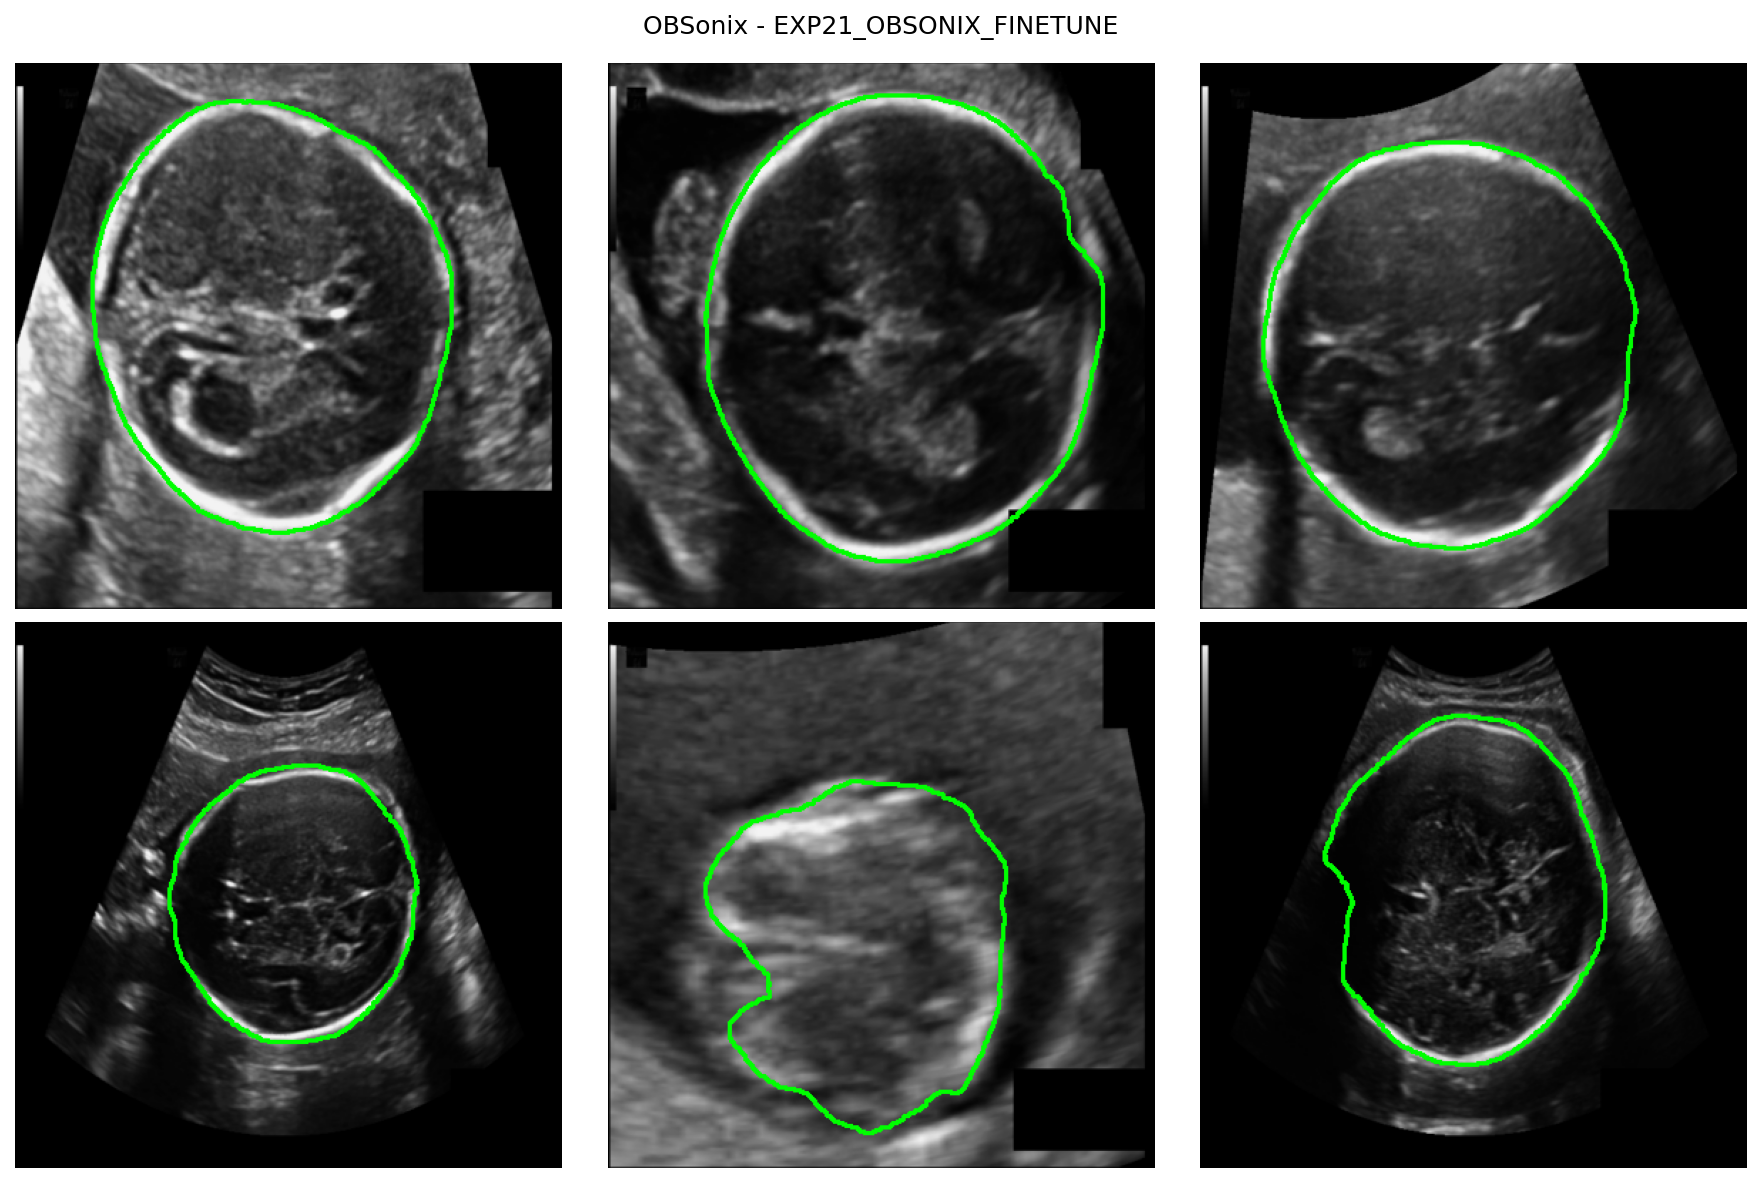
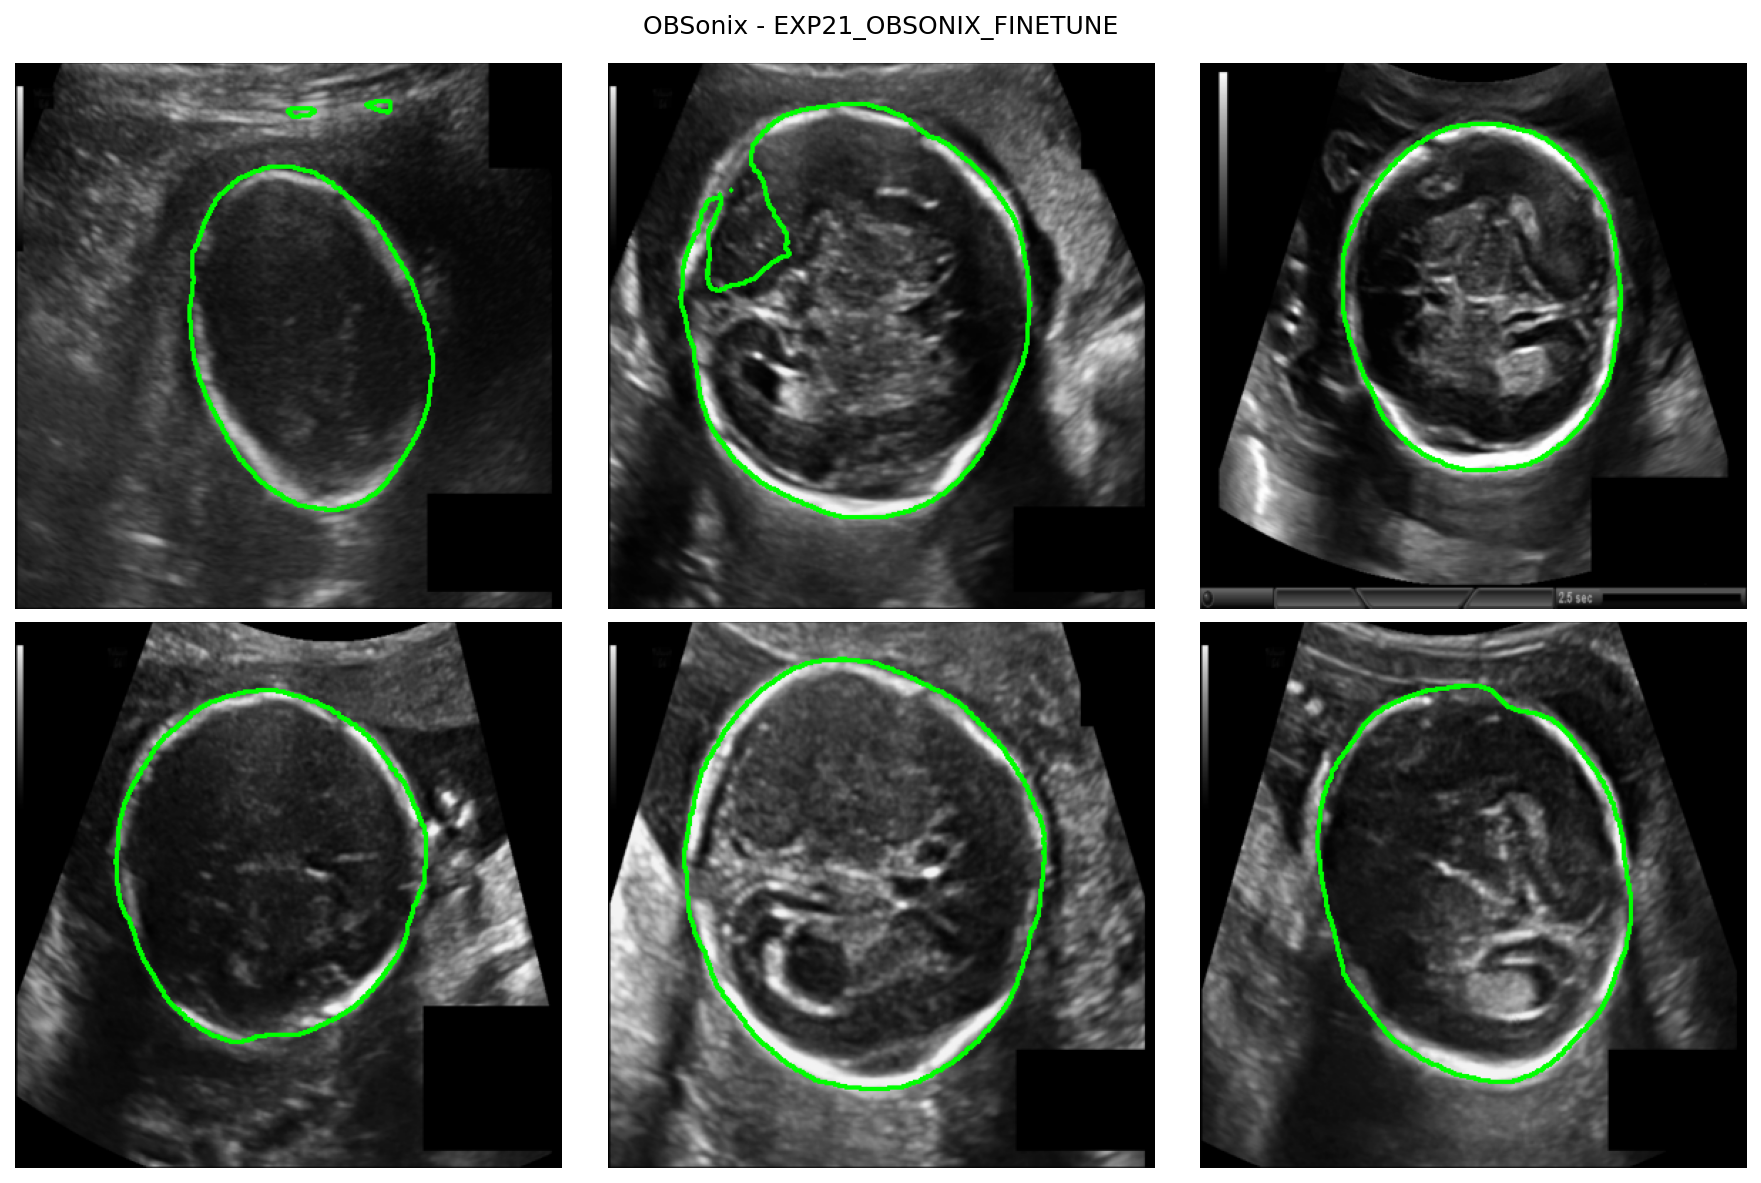
[EXP21_OBSONIX_FINETUNE] best_val_dice=0.9656; best_epoch=38; obs_init=DINOv2-B; objectif_0.93=OK

diff --git a/experiments/EXP21_OBSONIX_FINETUNE/summary.md b/experiments/EXP21_OBSONIX_FINETUNE/summary.md
@@ -1,11 +1,11 @@
 # EXP21_OBSONIX_FINETUNE
-*2026-06-22 16:52*
+*2026-06-22 20:28*
 
 ## Metriques
 | Metrique | Valeur |
 |---|---|
-| best_val_dice | 0.9649 |
-| best_epoch | 25 |
+| best_val_dice | 0.9656 |
+| best_epoch | 38 |
 | obs_init | DINOv2-B |
 | objectif_0.93 | OK |
 